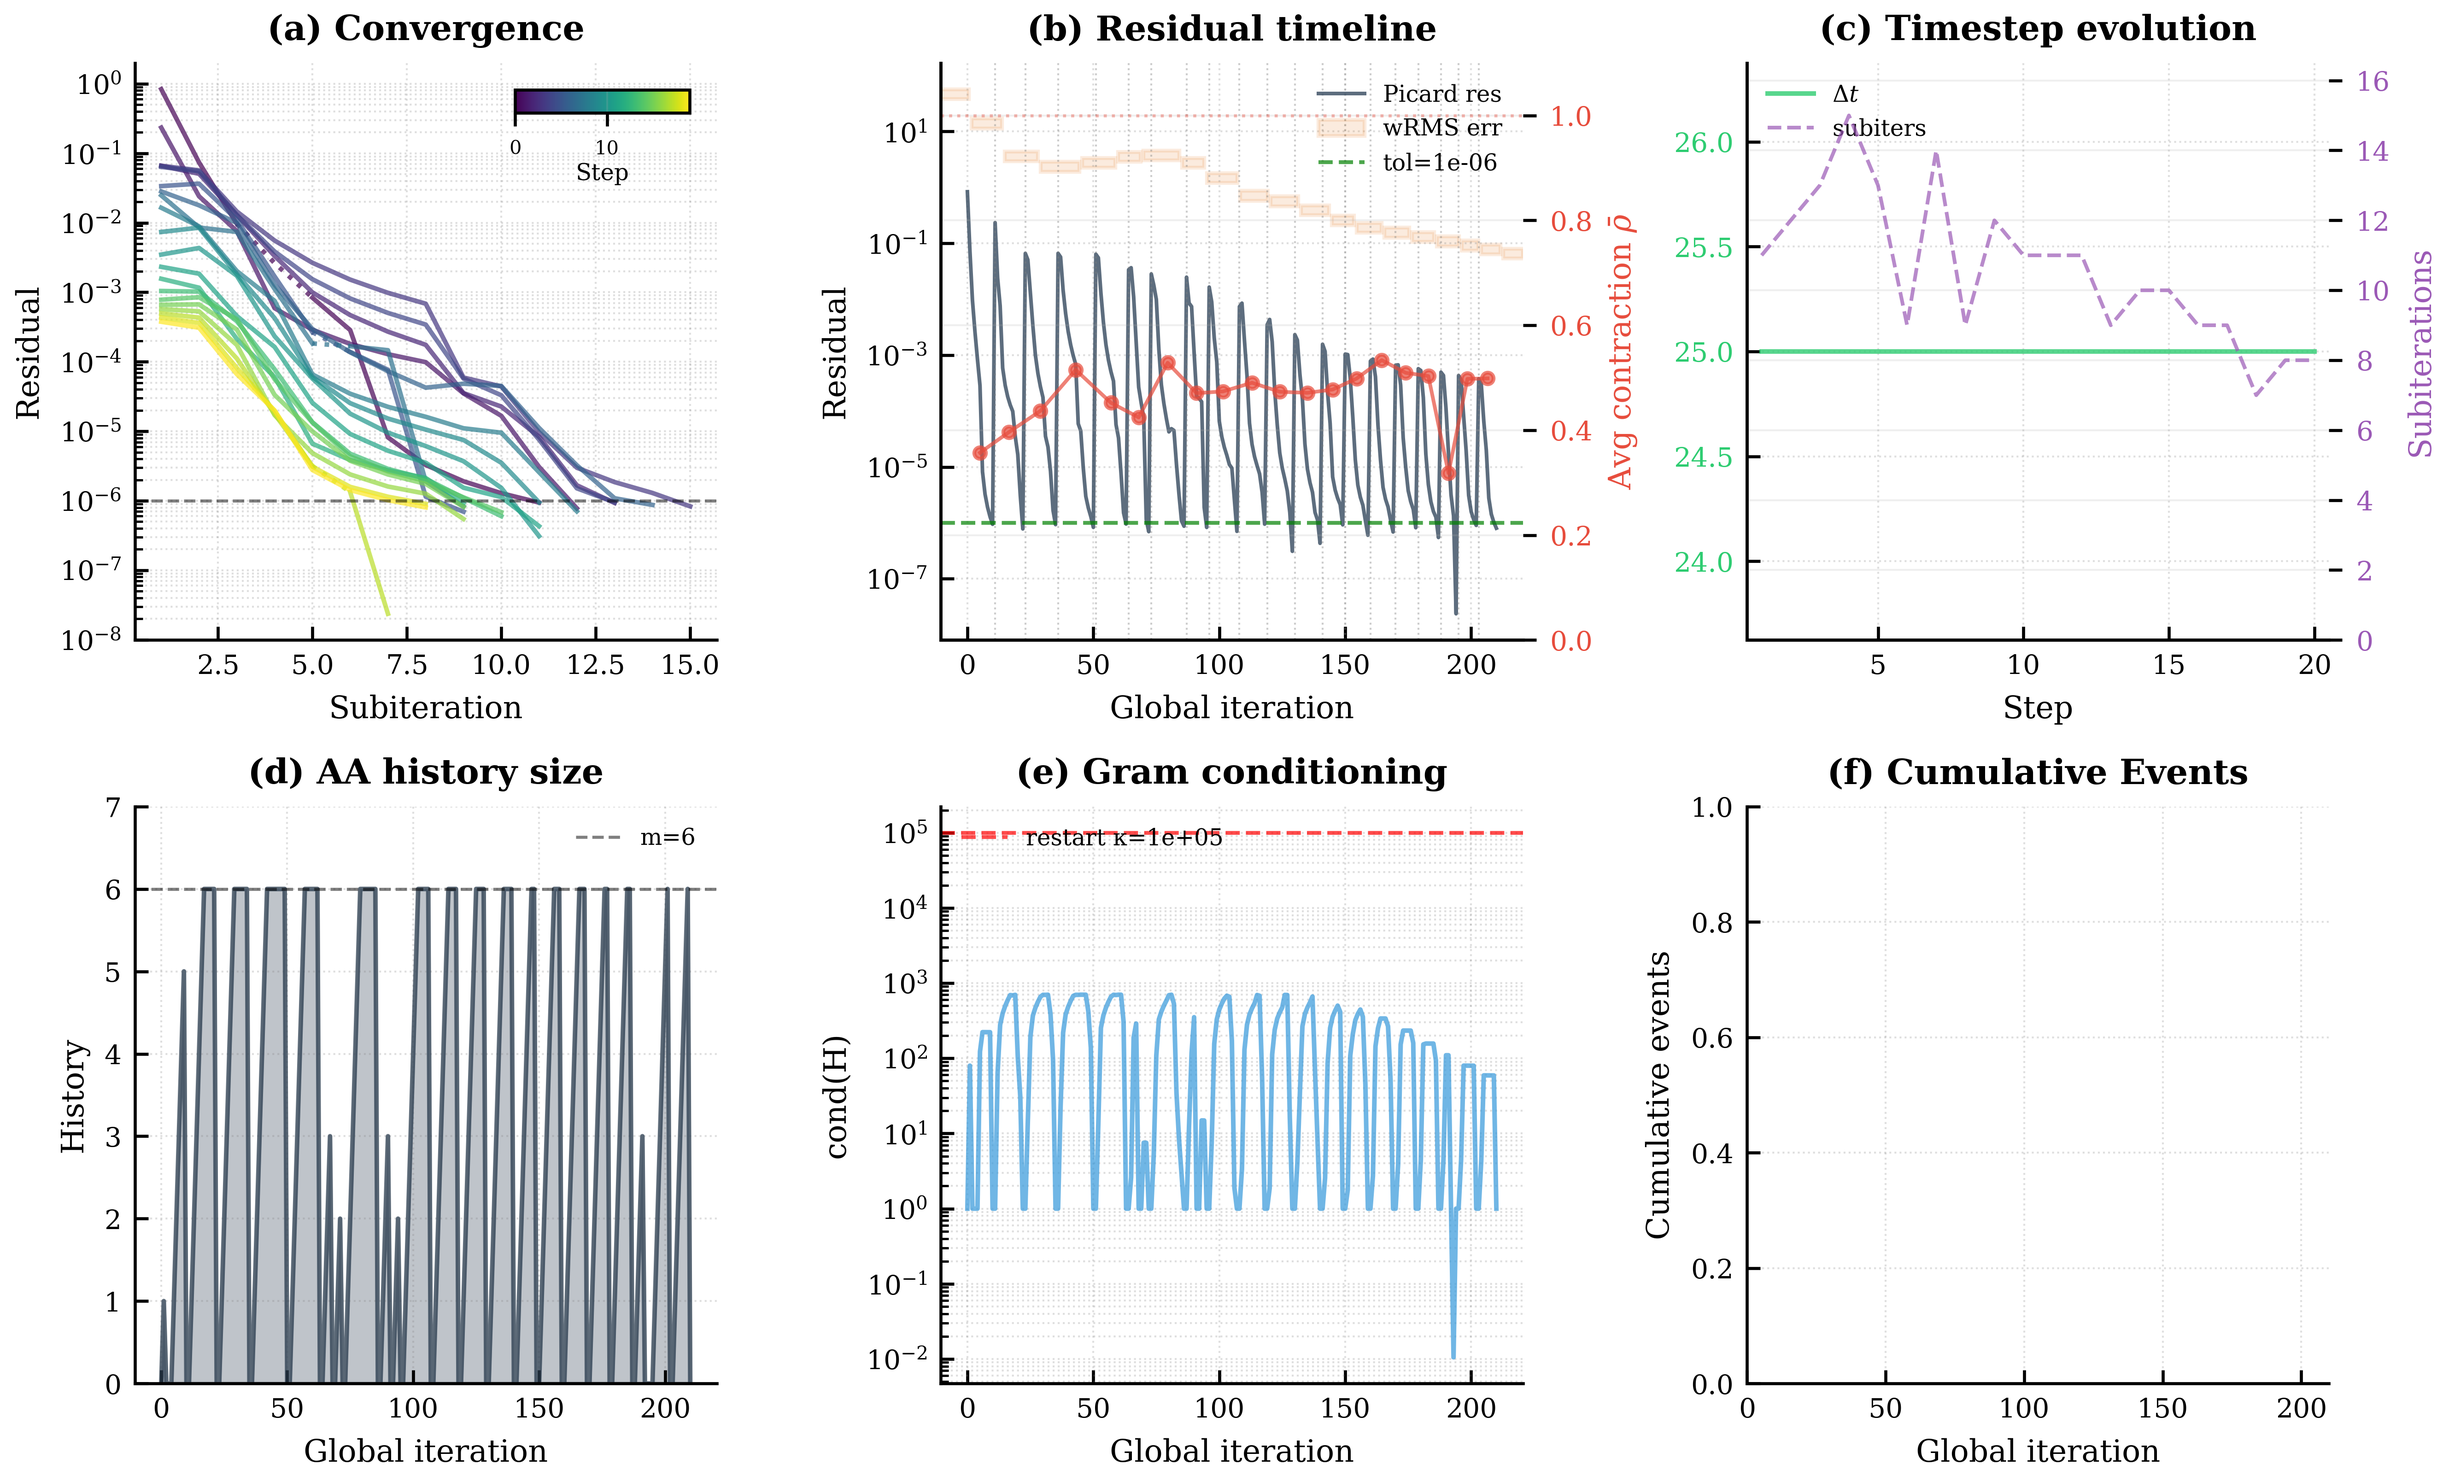
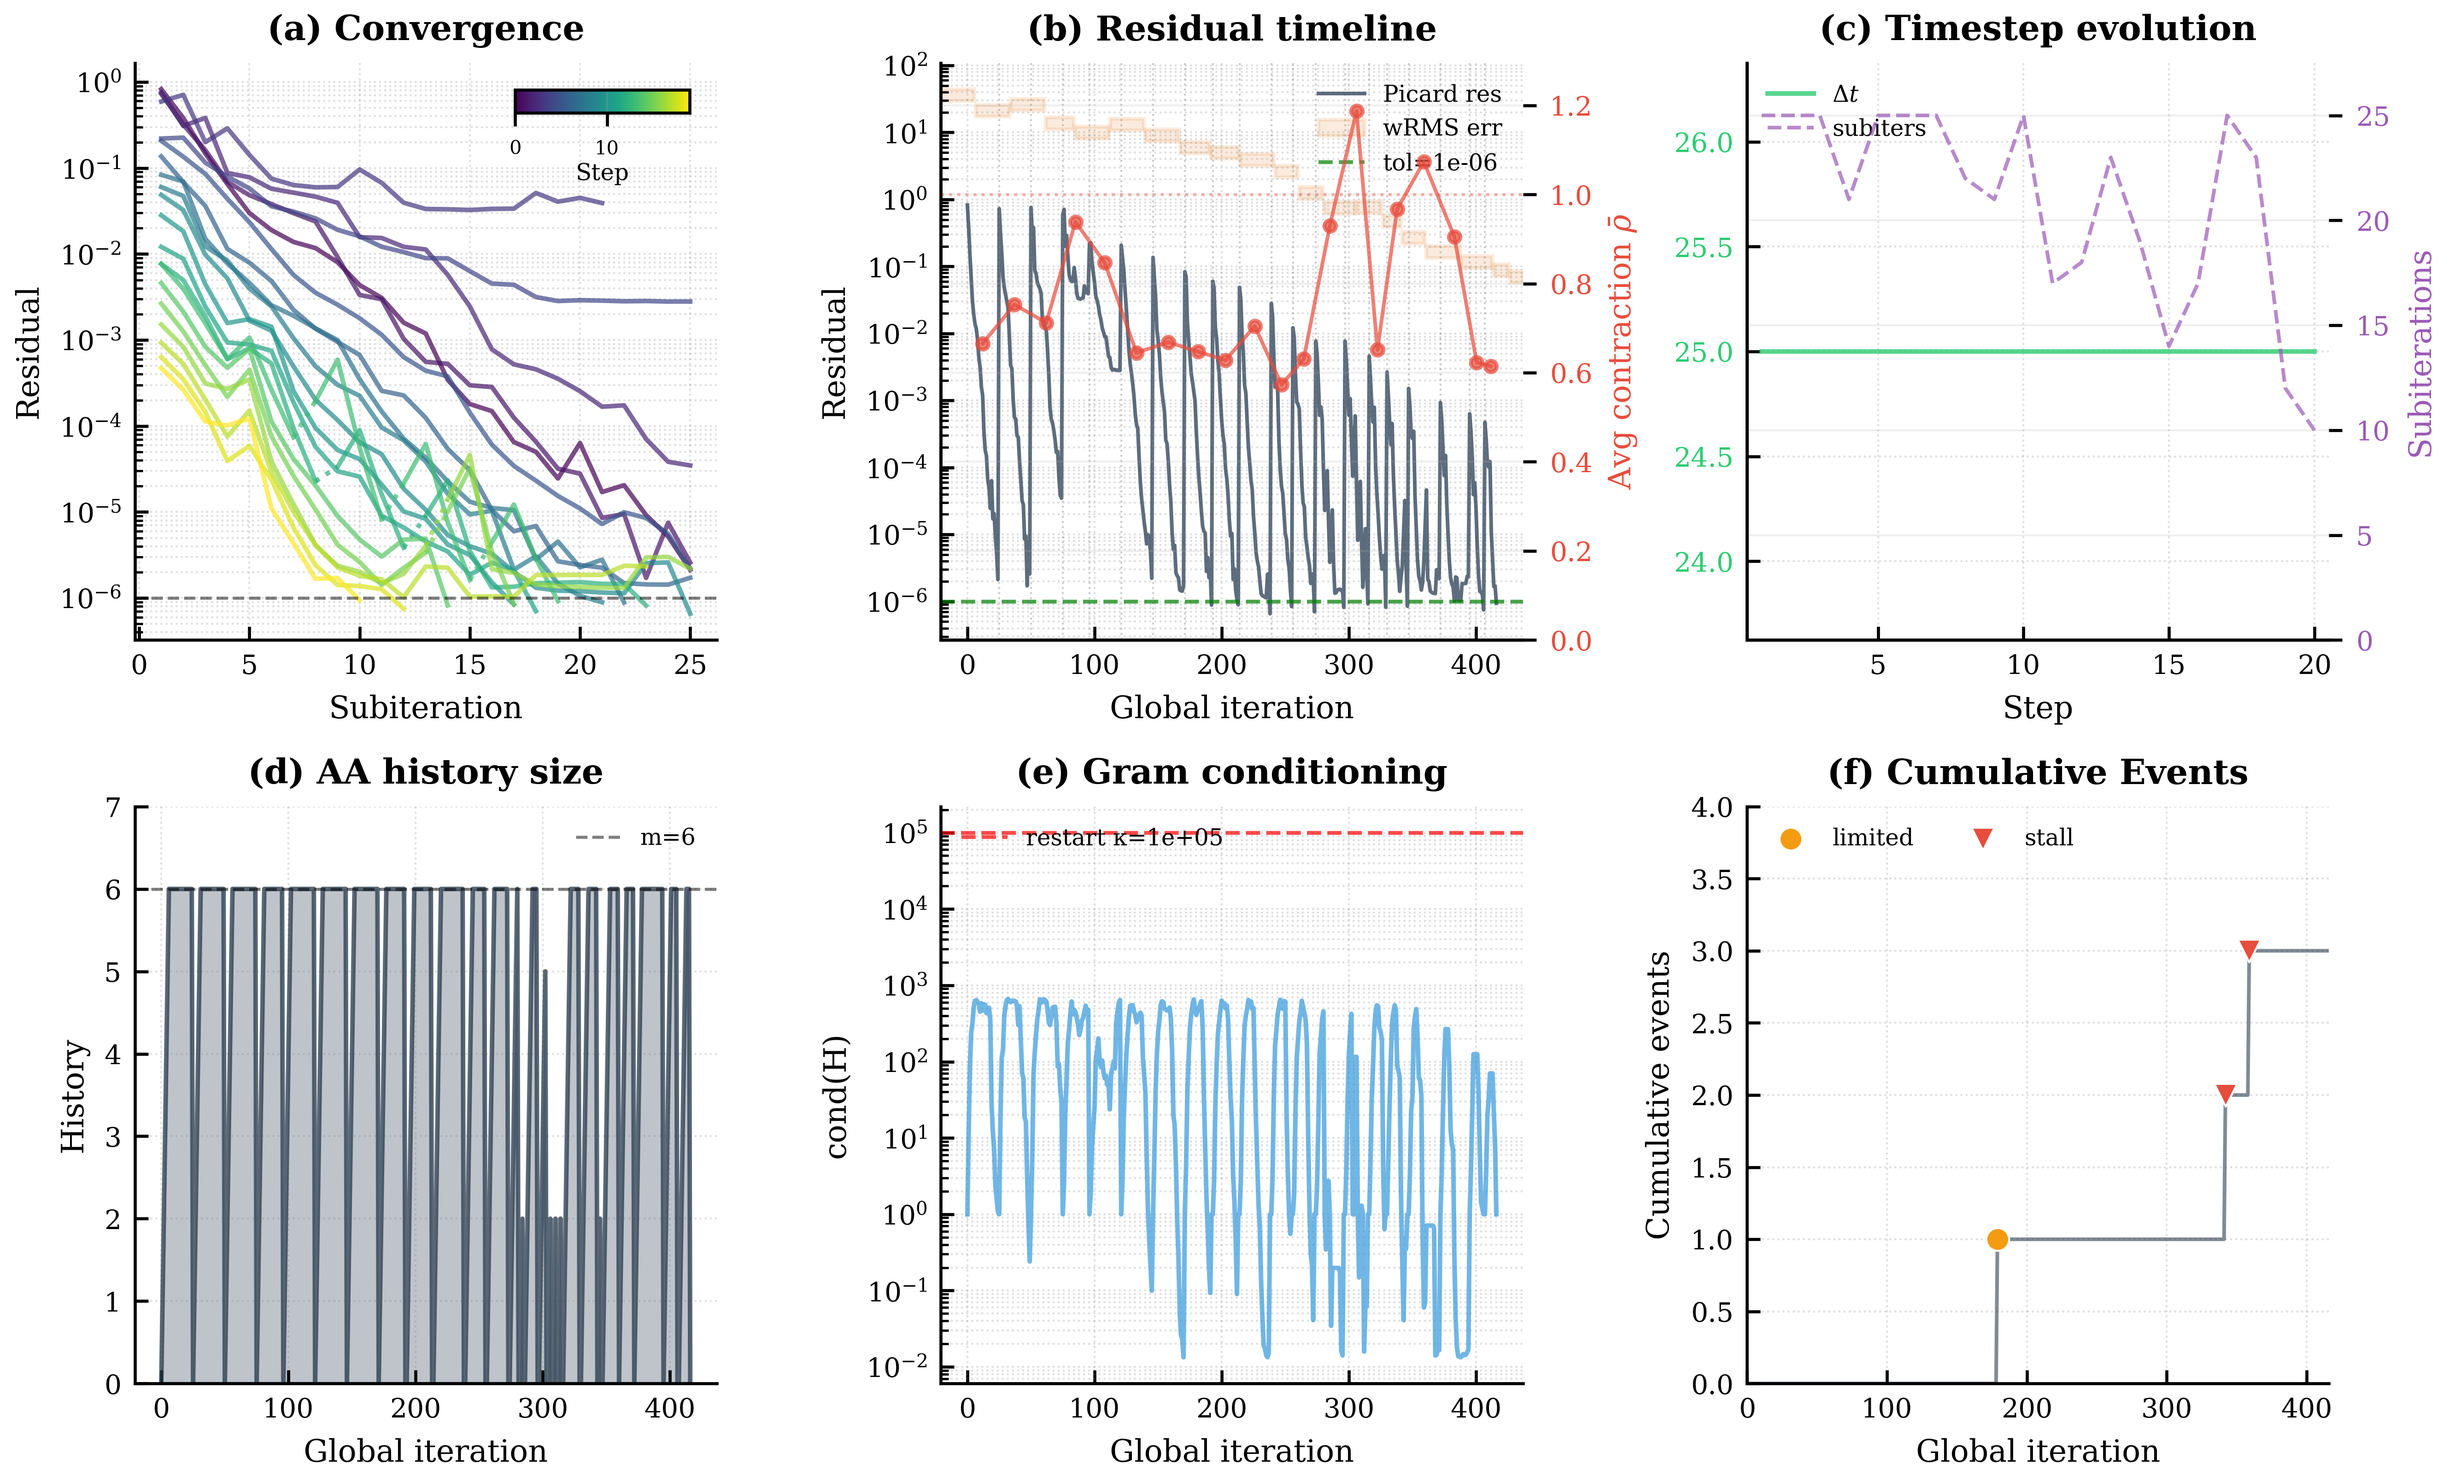
Update Anderson diagnostic plot configuration and parameters
- Change default run directory in anderson_diagnostic_plot.py
- Adjust density and Anderson parameters in default_params_box.json
- Update Anderson acceleration logic in simulation/anderson.py
- Ensure proper handling of 'aa_off' flag in fixedsolver.py
- Replace and update the Anderson diagnostic plot image

diff --git a/simulation/anderson.py b/simulation/anderson.py
@@ -188,13 +188,33 @@ class Anderson:
         avg_diag = np.trace(H) / max(p, 1)
         lam_eff = self.lam * max(avg_diag, self._TINY)
 
-        # Solve for mixing weights
-        alpha, alpha_method = self._solve_weights(H, lam_eff)
         cond_H = self._cond_number(H, lam_eff)
 
         # Compute residual norm for diagnostics and restart logic
         r_norm = self._rel_step(x_old, x_raw, x_raw)
         self._recent_res.append(r_norm)
+
+        # Check for restart conditions *before* forming the AA step to avoid
+        # the "last toxic Anderson step" right before a restart.
+        restart_reason = self._check_restart(r_norm, cond_H)
+        if restart_reason:
+            x_picard = x_old + self.beta * residual
+            step_norm = self._rel_step(x_old, x_picard, x_raw)
+            info: Dict = {
+                "aa_hist": p - 1,
+                "condH": cond_H,
+                "r_norm": r_norm,
+                "step_norm": step_norm,
+                "alpha_method": "skipped",
+                "limited": False,
+                "restart_reason": restart_reason,
+                "accepted": True,  # For API compatibility
+                "aa_off": True,  # This iteration used damped Picard
+            }
+            return x_picard, info
+
+        # Solve for mixing weights (safe: restart not triggered)
+        alpha, alpha_method = self._solve_weights(H, lam_eff)
 
         # Compute accelerated iterate (Pulay/DIIS form)
         x_aa = self._compute_accelerated_iterate(x_old, residual, alpha, p)
@@ -210,9 +230,6 @@ class Anderson:
             x_aa = x_old + scale_factor * (x_aa - x_old)
             step_norm = self._rel_step(x_old, x_aa, x_raw)
 
-        # Check for restart conditions
-        restart_reason = self._check_restart(r_norm, cond_H)
-
         info: Dict = {
             "aa_hist": p - 1,
             "condH": cond_H,
@@ -222,6 +239,7 @@ class Anderson:
             "limited": limited,
             "restart_reason": restart_reason,
             "accepted": True,  # For API compatibility
+            "aa_off": False,
         }
 
         return x_aa, info

diff --git a/analysis/anderson_diagnostic_plot.py b/analysis/anderson_diagnostic_plot.py
@@ -35,7 +35,6 @@ from matplotlib.colors import Normalize
 from mpl_toolkits.axes_grid1.inset_locator import inset_axes
 
 from analysis.plot_utils import (
-    FIGSIZE_DOUBLE_COLUMN,
     PLOT_LINEWIDTH,
     PUBLICATION_DPI,
     apply_style,
@@ -47,7 +46,7 @@ from analysis.plot_utils import (
 # Configuration
 # =============================================================================
 
-DEFAULT_RUN_DIR = Path(".results/")
+DEFAULT_RUN_DIR = Path(".results_box/")
 OUTPUT_FILE = Path("manuscript/images/anderson_diagnostic.png")
 
 # Colors for events

diff --git a/simulation/fixedsolver.py b/simulation/fixedsolver.py
@@ -303,7 +303,7 @@ class FixedPointSolver:
                 }
             elif use_anderson:
                 x_new_s, aa = self.anderson.mix(x_old_s, x_raw_s)
-                aa["aa_off"] = False
+                aa.setdefault("aa_off", False)
             else:
                 # Pure damped Picard
                 beta = self.cfg.solver.beta
